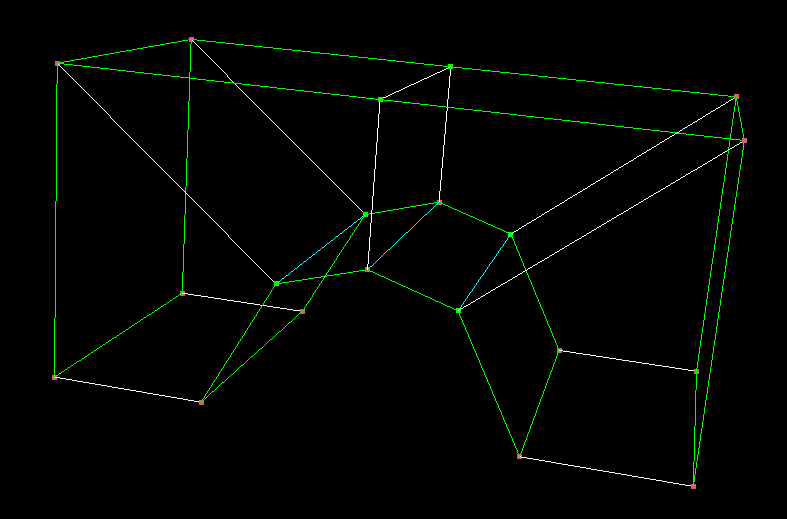
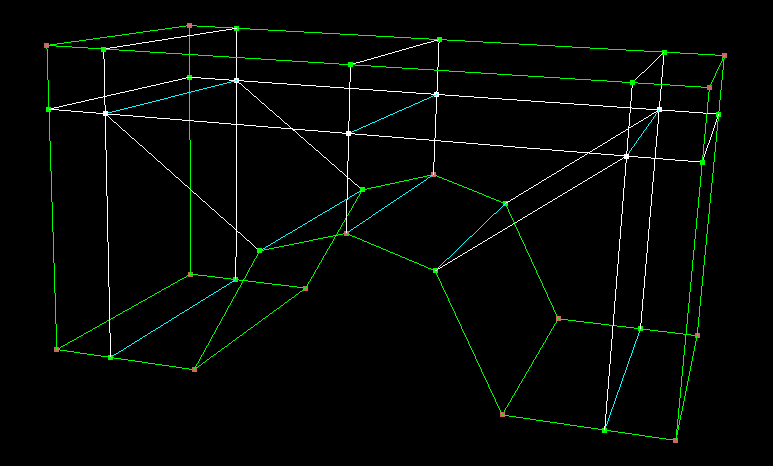
updated basic_bo tuto

diff --git a/tuto/basic_b0/b0.py b/tuto/basic_b0/b0.py
@@ -11,6 +11,12 @@ ctx.setLengthUnit(Mgx3D.Unit.centimeter)
 ctx.getGeomManager().importSTEP("B0.step")
 # Création d'un bloc topologique structuré sans projection (Vol0000)
 ctx.getTopoManager().newFreeTopoOnGeometry ("Vol0000")
+# Changement de discrétisation pour Ar0000
+emp = Mgx3D.EdgeMeshingPropertyUniform(30)
+ctx.getTopoManager().setParallelMeshingProperty (emp,"Ar0000")
+# Changement de discrétisation pour Ar0011
+emp = Mgx3D.EdgeMeshingPropertyUniform(20)
+ctx.getTopoManager().setParallelMeshingProperty (emp,"Ar0011")
 # Affectation d'une projection vers Pt0008 pour les entités topologiques Som0005
 ctx.getTopoManager().setGeomAssociation (["Som0005"], "Pt0008", True)
 # Affectation d'une projection vers Pt0009 pour les entités topologiques Som0007
@@ -27,8 +33,6 @@ ctx.getTopoManager().setGeomAssociation (["Som0002"], "Pt0002", True)
 ctx.getTopoManager().setGeomAssociation (["Som0004"], "Pt0000", True)
 # Affectation d'une projection vers Pt0001 pour les entités topologiques Som0006
 ctx.getTopoManager().setGeomAssociation (["Som0006"], "Pt0001", True)
-# Suppression des projections pour les entités topologiques Ar0009
-ctx.getTopoManager().setGeomAssociation (["Ar0009"], "", True)
 # Affectation d'une projection vers Crb0007 pour les entités topologiques Ar0009
 ctx.getTopoManager().setGeomAssociation (["Ar0009"], "Crb0007", True)
 # Affectation d'une projection vers Crb0013 pour les entités topologiques Ar0011
@@ -45,6 +49,10 @@ ctx.getTopoManager().setGeomAssociation (["Ar0008"], "Crb0003", True)
 ctx.getTopoManager().setGeomAssociation (["Ar0010"], "Crb0001", True)
 # Affectation d'une projection vers Crb0000 pour les entités topologiques Ar0006
 ctx.getTopoManager().setGeomAssociation (["Ar0006"], "Crb0000", True)
+# Affectation d'une projection vers Crb0020 pour les entités topologiques Ar0005
+ctx.getTopoManager().setGeomAssociation (["Ar0005"], "Crb0020", True)
+# Affectation d'une projection vers Crb0002 pour les entités topologiques Ar0004
+ctx.getTopoManager().setGeomAssociation (["Ar0004"], "Crb0002", True)
 # Affectation d'une projection vers Surf0002 pour les entités topologiques Fa0005
 ctx.getTopoManager().setGeomAssociation (["Fa0005"], "Surf0002", True)
 # Affectation d'une projection vers Surf0008 pour les entités topologiques Fa0001
@@ -55,57 +63,63 @@ ctx.getTopoManager().setGeomAssociation (["Fa0000"], "Surf0000", True)
 ctx.getTopoManager().setGeomAssociation (["Fa0002"], "Surf0001", True)
 # Affectation d'une projection vers Surf0003 pour les entités topologiques Fa0003
 ctx.getTopoManager().setGeomAssociation (["Fa0003"], "Surf0003", True)
-# Découpage en O-grid des blocs structurés Bl0000
-ctx.getTopoManager().splitBlocksWithOgridV2 (["Bl0000"], ["Fa0002", "Fa0004", "Fa0003"], .5, 10)
-# Destruction des entités topologiques Bl0004
-ctx.getTopoManager().destroy (["Bl0004"], True)
-# Découpage du bloc Bl0003
-ctx.getTopoManager().splitBlock ("Bl0003","Ar0002",.5)
-# Affectation d'une projection vers Pt0006 pour les entités topologiques Som0009
-ctx.getTopoManager().setGeomAssociation (["Som0009"], "Pt0006", True)
-# Affectation d'une projection vers Pt0012 pour les entités topologiques Som0011
-ctx.getTopoManager().setGeomAssociation (["Som0011"], "Pt0012", True)
-# Affectation d'une projection vers Pt0004 pour les entités topologiques Som0008
-ctx.getTopoManager().setGeomAssociation (["Som0008"], "Pt0004", True)
-# Affectation d'une projection vers Pt0010 pour les entités topologiques Som0010
-ctx.getTopoManager().setGeomAssociation (["Som0010"], "Pt0010", True)
-# Affectation d'une projection vers Pt0005 pour les entités topologiques Som0018
-ctx.getTopoManager().setGeomAssociation (["Som0018"], "Pt0005", True)
-# Affectation d'une projection vers Pt0013 pour les entités topologiques Som0019
-ctx.getTopoManager().setGeomAssociation (["Som0019"], "Pt0013", True)
-# Affectation d'une projection vers Crb0005 pour les entités topologiques Som0013
-ctx.getTopoManager().setGeomAssociation (["Som0013"], "Crb0005", True)
-# Affectation d'une projection vers Crb0015 pour les entités topologiques Som0015
-ctx.getTopoManager().setGeomAssociation (["Som0015"], "Crb0015", True)
-# Suppression des projections pour les entités topologiques Som0015
-ctx.getTopoManager().setGeomAssociation (["Som0015"], "", True)
-# Affectation d'une projection vers Crb0016 pour les entités topologiques Som0014
-ctx.getTopoManager().setGeomAssociation (["Som0014"], "Crb0016", True)
-# Affectation d'une projection vers Crb0004 pour les entités topologiques Som0012
-ctx.getTopoManager().setGeomAssociation (["Som0012"], "Crb0004", True)
-# Affectation d'une projection vers Crb0004 pour les entités topologiques Ar0021 Ar0037
-ctx.getTopoManager().setGeomAssociation (["Ar0021", "Ar0037"], "Crb0004", True)
-# Affectation d'une projection vers Crb0005 pour les entités topologiques Ar0038 Ar0025
-ctx.getTopoManager().setGeomAssociation (["Ar0038", "Ar0025"], "Crb0005", True)
-# Affectation d'une projection vers Crb0016 pour les entités topologiques Ar0023 Ar0040
-ctx.getTopoManager().setGeomAssociation (["Ar0023", "Ar0040"], "Crb0016", True)
-# Affectation d'une projection vers Crb0015 pour les entités topologiques Ar0027 Ar0041
-ctx.getTopoManager().setGeomAssociation (["Ar0027", "Ar0041"], "Crb0015", True)
-# Affectation d'une projection vers Crb0019 pour les entités topologiques Ar0024
-ctx.getTopoManager().setGeomAssociation (["Ar0024"], "Crb0019", True)
-# Affectation d'une projection vers Crb0017 pour les entités topologiques Ar0020
-ctx.getTopoManager().setGeomAssociation (["Ar0020"], "Crb0017", True)
-# Affectation d'une projection vers Surf0006 pour les entités topologiques Ar0026
-ctx.getTopoManager().setGeomAssociation (["Ar0026"], "Surf0006", True)
-# Affectation d'une projection vers Surf0005 pour les entités topologiques Ar0022
-ctx.getTopoManager().setGeomAssociation (["Ar0022"], "Surf0005", True)
-# Affectation d'une projection vers Crb0018 pour les entités topologiques Ar0043
-ctx.getTopoManager().setGeomAssociation (["Ar0043"], "Crb0018", True)
-# Affectation d'une projection vers Surf0007 pour les entités topologiques Fa0010
-ctx.getTopoManager().setGeomAssociation (["Fa0010"], "Surf0007", True)
-# Affectation d'une projection vers Surf0004 pour les entités topologiques Fa0006
-ctx.getTopoManager().setGeomAssociation (["Fa0006"], "Surf0004", True)
-# Affectation d'une projection vers Surf0005 pour les entités topologiques Fa0016 Fa0028
-ctx.getTopoManager().setGeomAssociation (["Fa0016", "Fa0028"], "Surf0005", True)
-# Affectation d'une projection vers Surf0006 pour les entités topologiques Fa0017 Fa0029
-ctx.getTopoManager().setGeomAssociation (["Fa0017", "Fa0029"], "Surf0006", True)
+# Découpage du bloc Bl0000
+ctx.getTopoManager().splitBlock ("Bl0000","Ar0002",.9)
+# Découpage du bloc Bl0001
+ctx.getTopoManager().splitBlock ("Bl0001","Ar0012",.1)
+# Découpage de tous les blocs suivant l'arête Ar0009
+ctx.getTopoManager().splitAllBlocks ("Ar0009",.8)
+# Découpage en O-grid des blocs structurés Bl0008
+ctx.getTopoManager().splitBlocksWithOgridV2 (["Bl0008"], ["Fa0034", "Fa0020", "Fa0035"], .5, 10)
+# Destruction des entités topologiques Bl0014
+ctx.getTopoManager().destroy (["Bl0014"], True)
+# Découpage de tous les blocs suivant l'arête Ar0025
+ctx.getTopoManager().splitAllBlocks ("Ar0025",.5)
+# Affectation d'une projection vers Pt0006 pour les entités topologiques Som0024
+ctx.getTopoManager().setGeomAssociation (["Som0024"], "Pt0006", True)
+# Affectation d'une projection vers Pt0012 pour les entités topologiques Som0025
+ctx.getTopoManager().setGeomAssociation (["Som0025"], "Pt0012", True)
+# Affectation d'une projection vers Pt0010 pour les entités topologiques Som0027
+ctx.getTopoManager().setGeomAssociation (["Som0027"], "Pt0010", True)
+# Affectation d'une projection vers Pt0004 pour les entités topologiques Som0026
+ctx.getTopoManager().setGeomAssociation (["Som0026"], "Pt0004", True)
+# Affectation d'une projection vers Pt0005 pour les entités topologiques Som0037
+ctx.getTopoManager().setGeomAssociation (["Som0037"], "Pt0005", True)
+# Affectation d'une projection vers Pt0013 pour les entités topologiques Som0036
+ctx.getTopoManager().setGeomAssociation (["Som0036"], "Pt0013", True)
+# Affectation d'une projection vers Crb0005 pour les entités topologiques Som0028
+ctx.getTopoManager().setGeomAssociation (["Som0028"], "Crb0005", True)
+# Affectation d'une projection vers Crb0004 pour les entités topologiques Som0030
+ctx.getTopoManager().setGeomAssociation (["Som0030"], "Crb0004", True)
+# Affectation d'une projection vers Crb0016 pour les entités topologiques Som0031
+ctx.getTopoManager().setGeomAssociation (["Som0031"], "Crb0016", True)
+# Affectation d'une projection vers Crb0015 pour les entités topologiques Som0029
+ctx.getTopoManager().setGeomAssociation (["Som0029"], "Crb0015", True)
+# Affectation d'une projection vers Crb0017 pour les entités topologiques Ar0076
+ctx.getTopoManager().setGeomAssociation (["Ar0076"], "Crb0017", True)
+# Affectation d'une projection vers Crb0019 pour les entités topologiques Ar0071
+ctx.getTopoManager().setGeomAssociation (["Ar0071"], "Crb0019", True)
+# Affectation d'une projection vers Crb0004 pour les entités topologiques Ar0075 Ar0098
+ctx.getTopoManager().setGeomAssociation (["Ar0075", "Ar0098"], "Crb0004", True)
+# Affectation d'une projection vers Crb0005 pour les entités topologiques Ar0097 Ar0070
+ctx.getTopoManager().setGeomAssociation (["Ar0097", "Ar0070"], "Crb0005", True)
+# Affectation d'une projection vers Crb0015 pour les entités topologiques Ar0072 Ar0094
+ctx.getTopoManager().setGeomAssociation (["Ar0072", "Ar0094"], "Crb0015", True)
+# Affectation d'une projection vers Crb0016 pour les entités topologiques Ar0095 Ar0077
+ctx.getTopoManager().setGeomAssociation (["Ar0095", "Ar0077"], "Crb0016", True)
+# Affectation d'une projection vers Crb0014 pour les entités topologiques Som0010 Ar0018 Ar0063
+ctx.getTopoManager().setGeomAssociation (["Som0010", "Ar0018", "Ar0063"], "Crb0014", True)
+# Affectation d'une projection vers Crb0012 pour les entités topologiques Som0014 Ar0065 Ar0029
+ctx.getTopoManager().setGeomAssociation (["Som0014", "Ar0065", "Ar0029"], "Crb0012", True)
+# Affectation d'une projection vers Crb0009 pour les entités topologiques Som0013 Ar0026 Ar0064
+ctx.getTopoManager().setGeomAssociation (["Som0013", "Ar0026", "Ar0064"], "Crb0009", True)
+# Affectation d'une projection vers Crb0006 pour les entités topologiques Som0009 Ar0062 Ar0015
+ctx.getTopoManager().setGeomAssociation (["Som0009", "Ar0062", "Ar0015"], "Crb0006", True)
+# Affectation d'une projection vers Surf0004 pour les entités topologiques Ar0034 Fa0019 Fa0053
+ctx.getTopoManager().setGeomAssociation (["Ar0034", "Fa0019", "Fa0053"], "Surf0004", True)
+# Affectation d'une projection vers Surf0007 pour les entités topologiques Ar0022 Fa0048 Fa0011
+ctx.getTopoManager().setGeomAssociation (["Ar0022", "Fa0048", "Fa0011"], "Surf0007", True)
+# Affectation d'une projection vers Surf0005 pour les entités topologiques Ar0074 Fa0058 Fa0076
+ctx.getTopoManager().setGeomAssociation (["Ar0074", "Fa0058", "Fa0076"], "Surf0005", True)
+# Affectation d'une projection vers Surf0006 pour les entités topologiques Ar0073 Fa0077 Fa0057
+ctx.getTopoManager().setGeomAssociation (["Ar0073", "Fa0077", "Fa0057"], "Surf0006", True)

diff --git a/tuto/basic_b0/b0_tuto.md b/tuto/basic_b0/b0_tuto.md
@@ -8,11 +8,15 @@ This is the geom model
 
 ![2D geom Image](geom.png)
 
-Create a free structured block. An associated block cannot be created because the shape is too complex for magix3d to automatically associate the topo entities to the geometry.
+Create a free structured block associated to the volume (topo->block->create). A not free block cannot be created because the shape is too complex for magix3d to automatically associate the topo entities to the geometry. By choosing the volume the block initial position will be the bounding box of the volume.
 
 ![2D topo Image](block.png)
 
-Associate the entites of the blocking to the geom model. Not all of them can be associated.
+Change the discretization of the edges (default is 10x10x10)
+
+![2D topo Image](discretize.png)
+
+Associate the entites of the blocking to the geom model. Not all of them can be associated. You can associate the entities one by one or use "topo->vert/edge/face->assoc" and choose method "Vertices to geom entities". The same goes for the edges.
 
 ![split ogrid Image](assoc2.png)
 
@@ -20,19 +24,31 @@ Do not forget to also do it for the faces
 
 ![split ogrid Image](assoc.png)
 
-Apply an ogrid pattern to the block. Ensure that it imprints itself onto three of the faces,as shown here in the preview.
+Split the block, here at 0.9
+
+![split ogrid Image](split_r.png)
+
+Proceed one the other side at 0.1
+
+![split ogrid Image](split_l.png)
+
+And at the top, this time split all the blocks at 0.8
+
+![split ogrid Image](split_t.png)
+
+Apply an ogrid pattern to the central block. Ensure that it imprints itself onto three of the faces,as shown here in the preview.
 
 ![split ogrid Image](ogrid_preview.png)
 
-Once applied, this is what the blocking looks like, both faces and edges
+Once applied, this is what the blocking looks like, for both the blocks and then edges
 
-![split ogrid Image](ogrid_faces.png) ![split ogrid Image](ogrid_edges.png)
+![split ogrid Image](ogrid_blocks.png) ![split ogrid Image](ogrid_edges.png)
 
 Destroy the central bottom block.
 
 ![split ogrid Image](destroy.png)
 
-And split the block at the top.
+And split the blocks at the top. It is necessary because at the moment we can assign an edge only to one single geometric entity, and the half circle at the bottom is composed of two curves.
 
 ![split ogrid Image](split.png)
 
